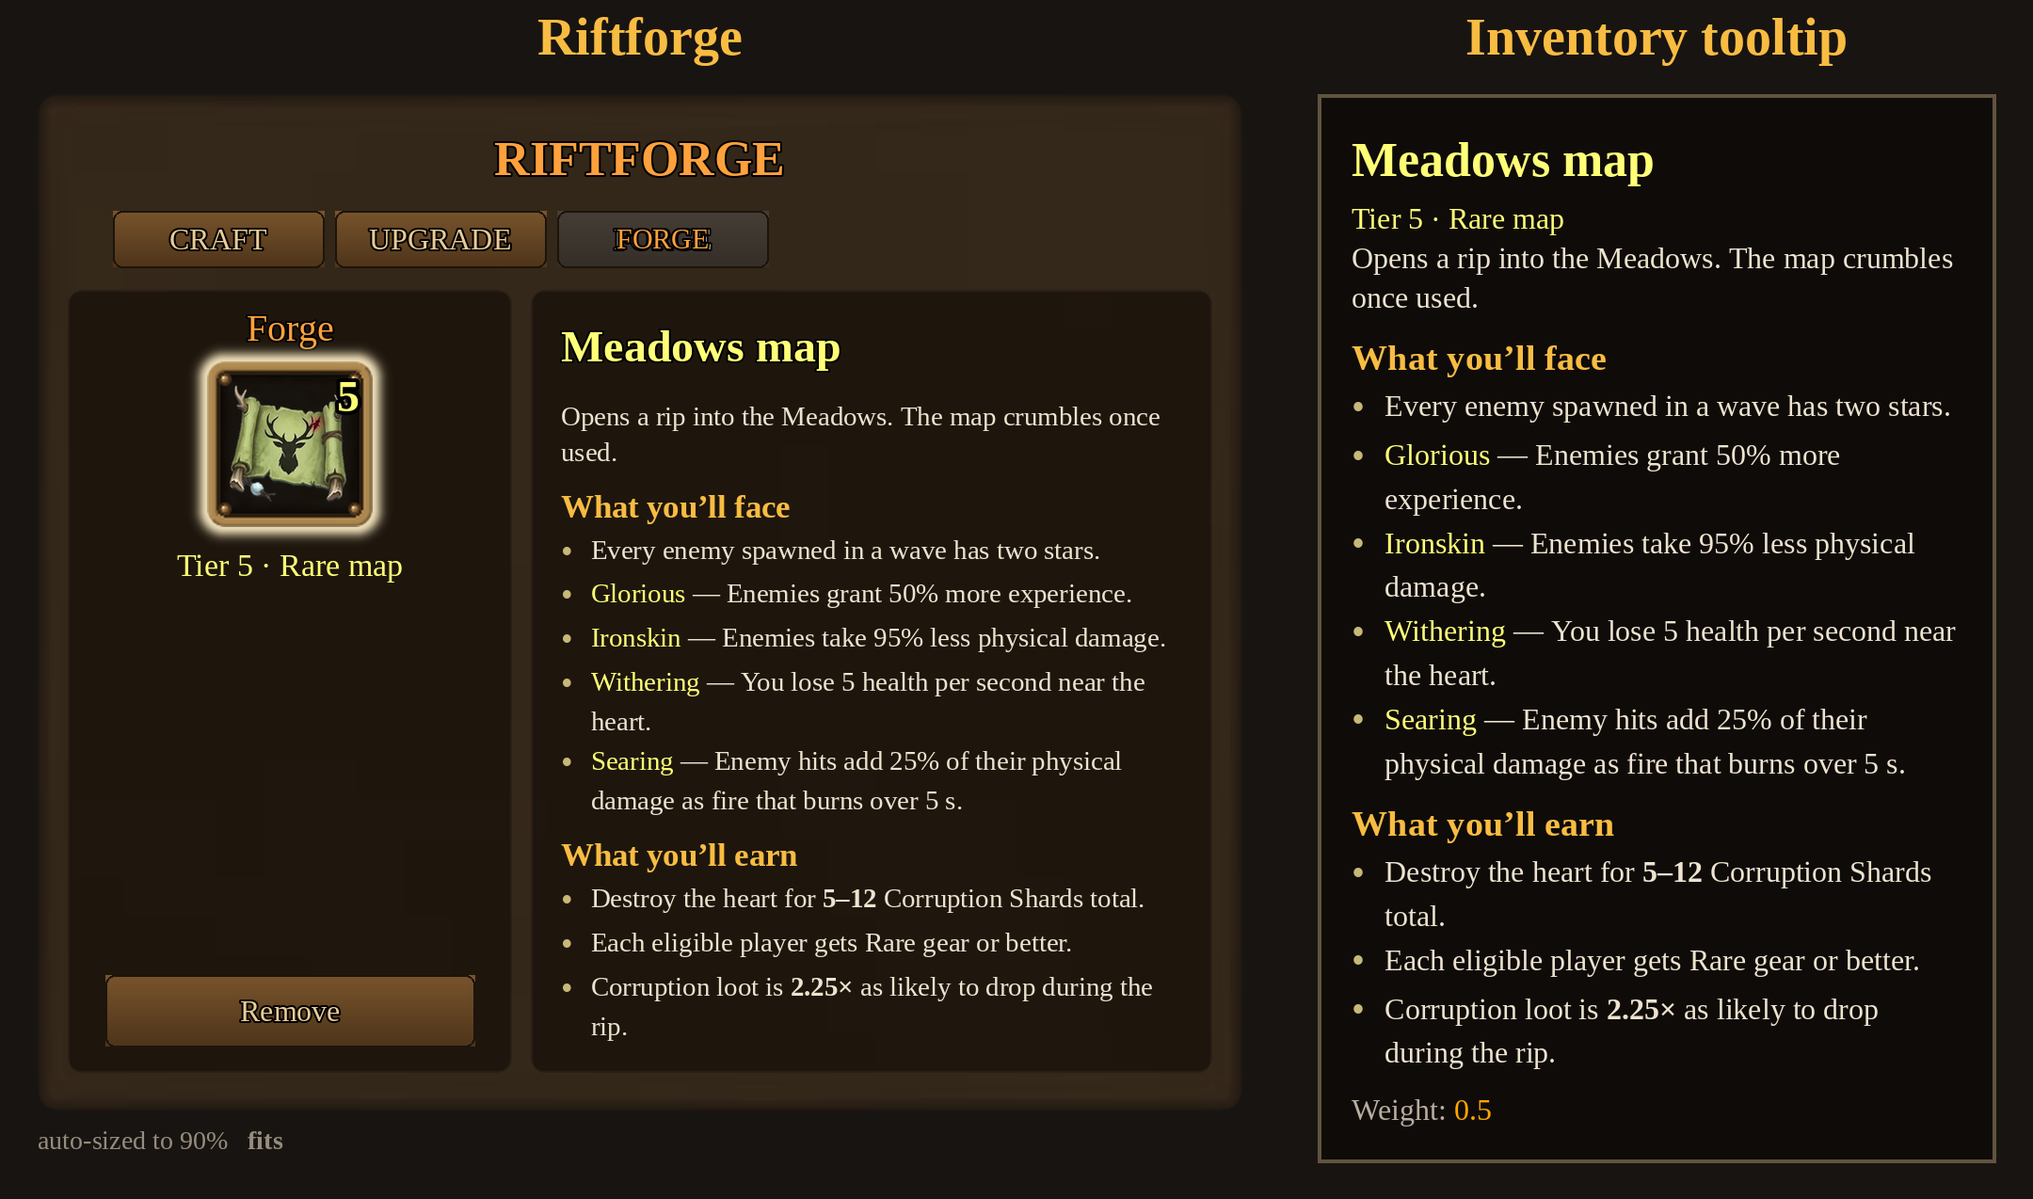
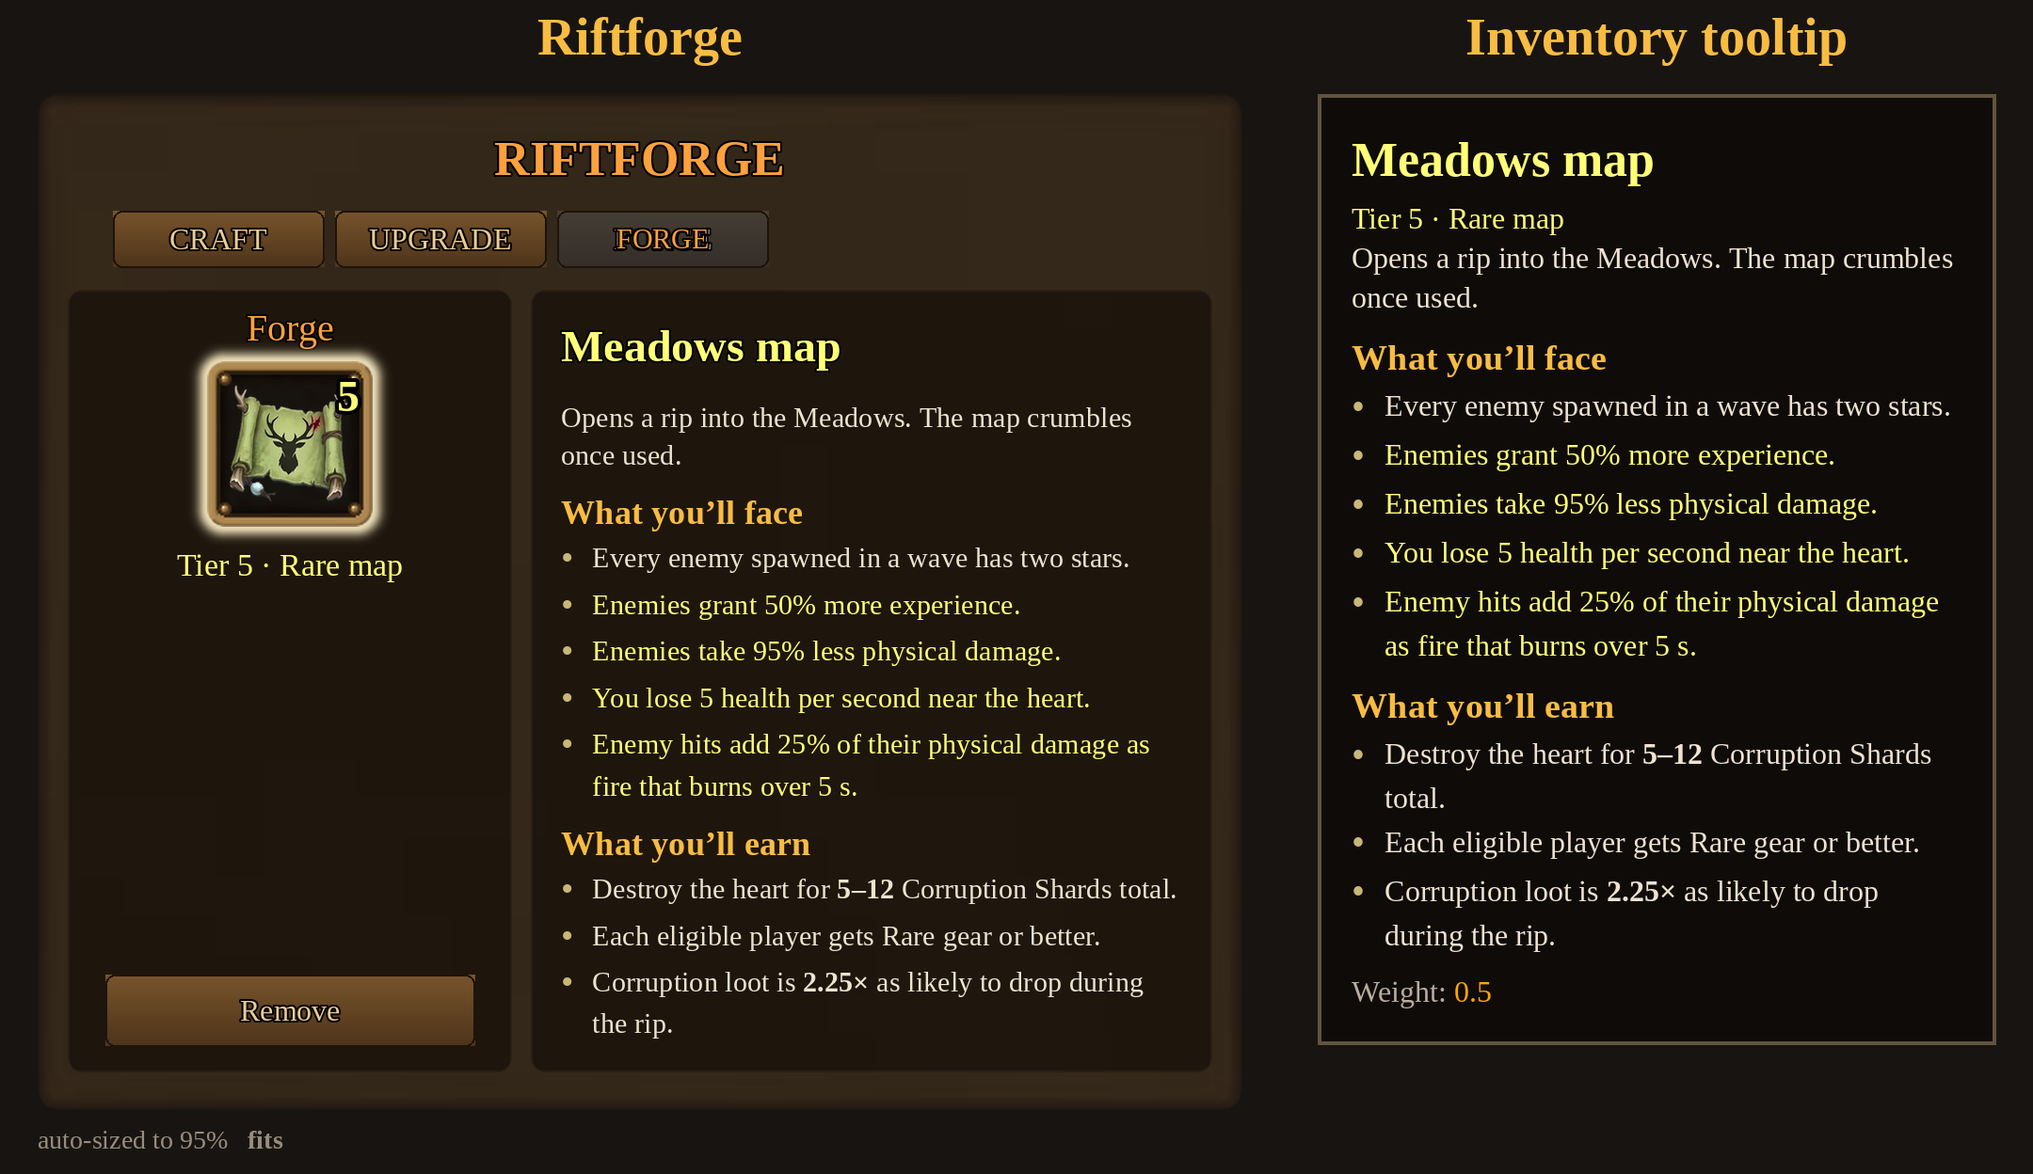
Map affixes: no names on the map, life steal counts Ironskin/Warded's cut (decisions 10-12, #90)
Claude-Session: https://claude.ai/code/session_01R9nuRqBBeHBuAPn8TkURTs

diff --git a/CraftingOverhaul.Tests/MapTextTests.cs b/CraftingOverhaul.Tests/MapTextTests.cs
@@ -1,4 +1,4 @@
-using System;
+using System;
 using System.Collections.Generic;
 using System.IO;
 using System.Linq;
@@ -100,15 +100,15 @@ namespace CraftingOverhaul.Tests
         }
 
         [Fact]
-        public void AffixLinesAreNameAndDanger()
+        public void AffixLinesAreTheDangerOnly()
         {
             var lines = MapText.AffixLines(Rolls("teeming", "nonsense", "brutal", "ironskin", "searing"));
             Assert.Equal(new[]
             {
-                "Teeming: 50% more enemies can fight at once and reinforcements arrive faster.",
-                "Brutal: Enemies deal 20% more damage.",
-                "Ironskin: Enemies take 95% less physical damage.",
-                "Searing: Enemy hits add 25% of their physical damage as fire that burns over 5 s."
+                "50% more enemies can fight at once and reinforcements arrive faster.",
+                "Enemies deal 20% more damage.",
+                "Enemies take 95% less physical damage.",
+                "Enemy hits add 25% of their physical damage as fire that burns over 5 s."
             }, lines.ToArray());
         }
 
@@ -116,14 +116,14 @@ namespace CraftingOverhaul.Tests
         public void AffixLineReplacesTheValueWithAWholeNumber()
         {
             var brutal = Affixes().Find("brutal");
-            Assert.Equal("Brutal: Enemies deal 63% more damage.", MapText.AffixLine(brutal, 63));
+            Assert.Equal("Enemies deal 63% more damage.", MapText.AffixLine(brutal, 63));
             Assert.Equal("Enemies deal 63% more damage.", MapText.Danger(brutal, 62.6));
             Assert.Equal("Enemies can't be staggered.", MapText.Danger(Affixes().Find("unyielding"), 0));
-            // The face line carries the value with the layout's dash, and the plain dash on a font without the fancy one.
+            // The face line is the danger alone (decision 10: no names), the same with either glyph set.
             var row = Tiers().Row(2);
             var rolls = new[] { new MapAffixRoll { Affix = brutal, Value = 63 } };
-            Assert.Equal("Brutal — Enemies deal 63% more damage.", MapText.FaceLines(row, rolls, Affixes(), MapGlyphs.Fancy)[1]);
-            Assert.Equal("Brutal - Enemies deal 63% more damage.", MapText.FaceLines(row, rolls, Affixes(), MapGlyphs.Plain)[1]);
+            Assert.Equal("Enemies deal 63% more damage.", MapText.FaceLines(row, rolls, Affixes(), MapGlyphs.Fancy)[1]);
+            Assert.Equal("Enemies deal 63% more damage.", MapText.FaceLines(row, rolls, Affixes(), MapGlyphs.Plain)[1]);
         }
 
         [Fact]
@@ -189,10 +189,10 @@ namespace CraftingOverhaul.Tests
                 "Opens a rip into the Meadows. The map crumbles once used.",
                 "What you’ll face",
                 "• Every enemy spawned in a wave has two stars.",
-                "• Glorious — Enemies grant 50% more experience.",
-                "• Ironskin — Enemies take 95% less physical damage.",
-                "• Withering — You lose 5 health per second near the heart.",
-                "• Searing — Enemy hits add 25% of their physical damage as fire that burns over 5 s.",
+                "• Enemies grant 50% more experience.",
+                "• Enemies take 95% less physical damage.",
+                "• You lose 5 health per second near the heart.",
+                "• Enemy hits add 25% of their physical damage as fire that burns over 5 s.",
                 "What you’ll earn",
                 "• Destroy the heart for 5–12 Corruption Shards total.",
                 "• Each eligible player gets Rare gear or better.",
@@ -221,7 +221,7 @@ namespace CraftingOverhaul.Tests
             var row = Tiers().Row(3);
             var face = MapText.FaceLines(row, Rolls("teeming", "brutal"), Affixes(), MapGlyphs.Fancy);
             Assert.Equal("Each enemy spawned in a wave has at least a 50% chance of two stars.", face[0]);
-            Assert.Equal(new[] { "Teeming — 50% more enemies can fight at once and reinforcements arrive faster.", "Brutal — Enemies deal 20% more damage." },
+            Assert.Equal(new[] { "50% more enemies can fight at once and reinforcements arrive faster.", "Enemies deal 20% more damage." },
                 face.Skip(1).ToArray());
             Assert.Equal(new[]
             {
@@ -238,9 +238,10 @@ namespace CraftingOverhaul.Tests
             string marks = "\n<color=#E04040>Corrupted</color>\n<color=#C8D8FF>Mirrored: can't be changed</color>";
             string text = Tooltip(6, FourAffixes, marks: marks);
             Assert.StartsWith("<color=#E04040>Tier 6 · Corrupted map</color>", text);
-            Assert.Contains("<color=#FFFF77>Glorious</color>", text);
-            Assert.Contains("<color=#FFFF77>Searing</color>", text);
-            Assert.DoesNotContain("<color=#E04040>Glorious", text);
+            // Decision 10: no names; the line itself is in the rarity colour.
+            Assert.Contains("<color=#FFFF77>Enemies grant 50% more experience.</color>", text);
+            Assert.DoesNotContain("Glorious", text);
+            Assert.DoesNotContain("<color=#E04040>Enemies grant", text);
             Assert.Contains("<b>6–14</b>", text);
             Assert.Contains("<b>2.5×</b>", text);
             Assert.Contains("<align=center>" + marks.TrimStart('\n') + "</align>", text);
@@ -253,7 +254,7 @@ namespace CraftingOverhaul.Tests
             var lines = Plain(Tooltip(5, new[] { "glorious" }, glyphs: MapGlyphs.Plain));
             Assert.Contains("What you'll face", lines);
             Assert.Contains("What you'll earn", lines);
-            Assert.Contains("• Glorious - Enemies grant 50% more experience.", lines);
+            Assert.Contains("• Enemies grant 50% more experience.", lines);
             Assert.Contains("• Corruption loot is 2.25x as likely to drop during the rip.", lines);
         }
 
@@ -263,7 +264,7 @@ namespace CraftingOverhaul.Tests
             var row = Tiers().Row(2);
             var face = MapText.FaceLines(row, Rolls("nonsense", "brutal"), Affixes(), MapGlyphs.Fancy);
             Assert.Equal(2, face.Count);
-            Assert.StartsWith("Brutal — ", face[1]);
+            Assert.StartsWith("", face[1]);
             var earn = MapText.EarnLines(row, null, MapGlyphs.Fancy);
             Assert.Equal(2, earn.Count);
             Assert.DoesNotContain("Corruption loot", string.Join("\n", earn));
@@ -299,8 +300,8 @@ namespace CraftingOverhaul.Tests
             Assert.StartsWith("<color=#EDE3CF>Opens a rip into the Meadows.", sheet);
             var lines = sheet.Split('\n');
             Assert.Single(lines, l => l.Contains("<mark=#E8C66A40>"));
-            Assert.Contains("Brutal", lines.Single(l => l.Contains("<mark=#E8C66A40>")));
-            Assert.DoesNotContain("<mark", lines.Single(l => l.Contains("Teeming")));
+            Assert.Contains("Enemies deal", lines.Single(l => l.Contains("<mark=#E8C66A40>")));
+            Assert.DoesNotContain("<mark", lines.Single(l => l.Contains("more enemies can fight")));
         }
 
         [Fact]

diff --git a/Corruption/Rules/MapText.cs b/Corruption/Rules/MapText.cs
@@ -65,10 +65,14 @@ namespace Corruption.Rules
             return affix.Danger.Replace("{value}", Math.Round(value).ToString("0", CultureInfo.InvariantCulture));
         }
 
-        /// <summary>"Brutal: Enemies deal 63% more damage." (the plain one-line form, e.g. for the Forge's message).</summary>
+        /// <summary>
+        ///     "Enemies deal 63% more damage." (the one-line form, e.g. for the Forge's message). No affix name: Krogon,
+        ///     2026-11-27 (decision 10): "The names of affixes do not need to be shown on the tooltip, it uses up already
+        ///     limited ui space." The names stay in the table for logs and the console.
+        /// </summary>
         public static string AffixLine(MapAffixTable.Affix affix, double value)
         {
-            return affix.Name + ": " + Danger(affix, value);
+            return Danger(affix, value);
         }
 
         /// <summary>One line per roll, in the map's order.</summary>
@@ -158,10 +162,12 @@ namespace Corruption.Rules
                 }
                 if (!rich)
                 {
-                    lines.Add(affix.Name + " " + glyphs.Dash + " " + Danger(affix, value));
+                    lines.Add(Danger(affix, value));
                     continue;
                 }
-                string line = Bullet("<color=" + nameColor + ">" + affix.Name + "</color><color=" + BodyColor + "> " + glyphs.Dash + " " + Danger(affix, value) + "</color>");
+                // The line alone, in the rarity colour the name had, so the map's own affixes still stand out from the tier's
+                // lines (decision 10: no names).
+                string line = Bullet("<color=" + nameColor + ">" + Danger(affix, value) + "</color>");
                 lines.Add(highlight != null && highlight.Contains(affix.Id) ? MarkOpen + line + MarkClose : line);
             }
             return lines;

diff --git a/Corruption/Content/LootPatches.cs b/Corruption/Content/LootPatches.cs
@@ -476,7 +476,7 @@ namespace Corruption.Content
     [HarmonyPatch(typeof(Character), nameof(Character.Damage))]
     internal static class LootHitEffects
     {
-        private static void Prefix(HitData hit)
+        private static void Prefix(Character __instance, HitData hit)
         {
             if (hit == null || !Player.m_localPlayer || hit.GetAttacker() != Player.m_localPlayer || HitSources.IsDamageOverTime(hit))
             {
@@ -494,7 +494,18 @@ namespace Corruption.Content
                 if (steal > 0f && hit.GetAttacker() != null)
                 {
                     var d = hit.m_damage;
-                    float damage = d.m_blunt + d.m_slash + d.m_pierce + d.m_fire + d.m_frost + d.m_lightning + d.m_poison + d.m_spirit;
+                    float physical = d.m_blunt + d.m_slash + d.m_pierce;
+                    float elemental = d.m_fire + d.m_frost + d.m_lightning + d.m_poison;
+                    // A rip creature with Ironskin or Warded takes only 5% of that kind on its owner's game; life steal counts
+                    // what the hit really deals to it (Krogon, 2026-11-27, decision 11: "Lifesteal should steal the amount it
+                    // damages for."). The stamp is on the creature's ZDO, so this game can read it.
+                    var rip = RipCreatures.Of(__instance);
+                    if (rip != null)
+                    {
+                        physical *= rip.PhysicalTaken;
+                        elemental *= rip.ElementalTaken;
+                    }
+                    float damage = physical + elemental + d.m_spirit;
                     Player.m_localPlayer.Heal(damage * steal);
                 }
             });

diff --git a/docs/handoffs/claude-kind-einstein-8sn8e7.md b/docs/handoffs/claude-kind-einstein-8sn8e7.md
@@ -18,7 +18,7 @@ Nothing confirmed in game yet.
 
 - **Built, not play-tested** (756 tests; Corruption and Orlog build): the 17 affixes of Krogon's list (4 old ones removed), rolled values (`id:value`), Divine rerolling map values, the groups rule, the "Rip curse" within 96 m, `DisabledMapAffixes`, `co_map id:value`. Reviewed by Opus twice (game code; multiplayer and dedicated server); their fixes are in (`FEATURES.md` changelog).
 - **Claude's choices** (changeable): the 17 affix names (Glorious, Teeming, Brutal, Frenzied, Ruthless, Sturdy, Mighty, Fleet, Unyielding, Ironskin, Warded, Withering, Exhausting, Exposed, Venomous, Searing, Stormcalled) and their one-line copy; all equally likely; "elemental" = fire, frost, lightning, poison (not spirit); Exposed lowers Corruption's gear resistances only; a switched-off affix still acts on maps that carry it; old maps lose their removed affixes and drop in tier.
-- **Known limits:** life steal counts the hit before Ironskin/Warded's 95% cut; Fleet adds its full bonus while swimming; a creature already hurt when a rip starts keeps its health points while its maximum rises; Unyielding also stops parry staggers, guard breaks and adrenaline from staggers.
+- **Known limits:** Fleet adds its full bonus while swimming; a creature already hurt when a rip starts keeps its health points while its maximum rises; Unyielding also stops parry staggers, guard breaks and adrenaline from staggers.
 - The game code was decompiled for this round (decision 9); every patch target was checked against Valheim 1.0.31.
 
 ## Decisions
@@ -97,15 +97,18 @@ Monsters have thorns.
 8. **"In the rip" is 96 m from the heart** (2026-11-27): "Sure use the 96m". The player drains (life, stamina, resistances) act within 96 m of the rip's heart, the waves' range.
 9. **Decompiling the game is allowed** (2026-11-27): "Youre allowed to decompile game code for the purpose of modding."
 
+10. **Affix names are not shown on the map** (2026-11-27): "The names of affixes do not need to be shown on the tooltip, it uses up already limited ui space. Either remove them or hide them, if you need the names for the affixes to function in the background correctly." The tooltip and the Forge show each affix's line only; the names stay in the table for the code, logs and console.
+11. **Life steal steals what the hit really deals** (2026-11-27): "Lifesteal should steal the amount it damages for." On Ironskin and Warded maps life steal counts the damage after their 95% cut.
+12. **All affixes equally likely** (2026-11-27): "All are equal for now."
+
 ## Playtest
 
 Solo checklist: `docs/playtests/claude-kind-einstein-8sn8e7.md` (`ma-1` … `ma-27`) and the phone page (its new top section, "Map affix overhaul"). Not started.
 
 ## Open questions for Krogon
 
-1. The 17 affix names and their copy (Claude's proposals; preview `docs/images/map_ui_tier5.png`): keep, or rename?
-2. Life steal on Ironskin/Warded maps counts the full hit before the 95% cut: leave it, or cut it too?
-3. Should some affixes be rarer than others? All are equally likely today.
+1. The rip's portal and heart hover text still lists the affix names ("Tier 5 · Glorious, Ironskin, …"): keep the names there, or show the lines too?
+2. Life steal in general counts the hit before the target's armour and resistances (since 2026-10-30); decision 11 is applied to Ironskin/Warded only. Should all life steal count the damage after armour and resistances?
 
 ## Next steps
 

diff --git a/FEATURES.md b/FEATURES.md
@@ -1760,6 +1760,7 @@ Diablo 2-style classes in a separate plugin: the Amazon first (group vote, 2026-
 ## Changelog
 
 ### 2026-11-27
+- **Map affixes: no names on the map; life steal counts the real hit** (branch `claude/kind-einstein-8sn8e7`, Krogon's decisions 10 and 11; built, not play-tested): the tooltip, the Forge sheet and the Forge's result lines show each affix's line alone, in the rarity colour ("The names of affixes do not need to be shown on the tooltip, it uses up already limited ui space."); the names stay in `map_affixes.csv` for logs, `co_rip` and the rip's hover text. Life steal on a rip creature with Ironskin or Warded counts the damage after their 95% cut ("Lifesteal should steal the amount it damages for."; `Character.Damage` prefix `LootHitEffects` now reads the victim). Preview pictures redrawn. 756 tests.
 - **Map affix overhaul, review fixes** (branch `claude/kind-einstein-8sn8e7`, #90; built, **not play-tested**): Fleet respects freezes and stuns (speed 0); a creature at full health stays at full health after a reload or a max-health change; the server drops NaN values, `later` (not built) affixes and a second affix of a group from a rip request; stamped creatures keep their stamp. Tests now 756.
 - **Map affix overhaul, part 2: the affixes act** (branch `claude/kind-einstein-8sn8e7`, #90; built, **not play-tested**, reviews pending): rip creatures' hits (`Character.Damage` prefix, Low: damage, double damage, poison/fire/lightning shares of physical), damage taken (`Character.RPC_Damage` prefix: 95% less physical or elemental), health (`Character.SetupMaxHealth` postfix), speed (`SEMan.ApplyStatusEffectSpeedMods` prefix+postfix, `Character.UpdateFlying` prefix+finalizer), attack speed (`CharacterAnimEvent.Speed` prefix, `CustomFixedUpdate` postfix, `Attack.Start` postfix, `Humanoid.GetTimeSinceLastAttack` postfix), no stagger (`Character.AddStaggerDamage`, `Character.Stagger` prefixes at Last, skip), and on players within 96 m of the heart a "Rip curse" status effect for the life and stamina drains (`Player.UpdateStats` postfix) and the resistance penalty (in the existing resistance prefix). Orlog's kill XP reads the creature's `corruption_rip_xp`. `co_map` lists the ids and the `id:value` form; `co_rip` shows the values. 754 tests.
 - **Map affix overhaul, part 1: the new pool and rolled values** (branch `claude/kind-einstein-8sn8e7`, #90, Krogon's decisions 1–9 of that day; built, **not play-tested**, the creature and player effects come in part 2): Swarming, Hardened, Rabid and Smouldering are removed (the Hardened `Character.RPC_Damage` prefix and Rabid's maddened effect are gone; Smouldering's `Character.Damage` prefix stays, reading the new fire share, until Searing replaces it). `map_affixes.csv` holds Krogon's 17 affixes with effect, range and exclusion group; each map rolls a whole-number value per affix, stored as `id:value` in the item, the rip request and the creatures' stamp (the server clamps values). The Divine Orb now rerolls a map's values; orbs never put two affixes of one group (the two immunities, the two health affixes) on a map. Old maps' removed affixes are dropped and the map's tier follows what is left. 754 tests.

diff --git a/docs/playtests/claude-kind-einstein-8sn8e7.md b/docs/playtests/claude-kind-einstein-8sn8e7.md
@@ -33,7 +33,7 @@ Use a **fresh** white map for each test (`co_map meadows`), so one map's affixes
 | Step | What to do | What you should see | Pass / Fail | Note |
 |---|---|---|---|---|
 | ma-1 | F5, `devcommands`, `god`. Open `BepInEx/LogOutput.log` and read the top of it. | No red errors. The log has `Map tiers: 6 tiers, 20 affixes (glorious, teeming, brutal, frenzied, ruthless, sturdy, mighty, fleet, unyielding, ironskin, warded, withering, exhausting, exposed, venomous, searing, stormcalled roll).` Frostbitten, drowned and choking are counted but not in the roll list. | | |
-| ma-2 | `co_map meadows 2 brutal:100`. Open the inventory, Maps tab, and hover the map. | A Magic tier 2 Meadows map (blue name). Under "What you'll face": `Brutal — Enemies deal 100% more damage.` | | |
+| ma-2 | `co_map meadows 2 brutal:100`. Open the inventory, Maps tab, and hover the map. | A Magic tier 2 Meadows map (blue name). Under "What you'll face": `Enemies deal 100% more damage.` (no affix name, decision 10), in the map's rarity colour | | |
 | ma-3 | `co_map meadows 3 brutal sturdy`. Put the map in the Forge tab. Pick up a **Divine Orb** in Currencies and click the forge slot. Repeat with more Divine Orbs if needed. | Brutal's number changes to something from 20 to 100. Sturdy's changes to something from 25 to 50. The map stays tier 3. | | |
 | ma-4 | `co_map meadows 2 teeming`. Put it in the forge and use a Divine Orb. | Refused: "Map affixes have no values to reroll." Teeming has one fixed value, so nothing changes. | | |
 | ma-5 | Make at least 4 new maps: `co_map meadows`, then an Orb of Alchemy (tier 4, 3 affixes); for some, an Exalted Orb as well (tier 5, 4 affixes). Look at each map's affix list. | No map ever shows both Ironskin and Warded, or both Sturdy and Mighty. If you see one, write which map and its tooltip in the Note. | | |
